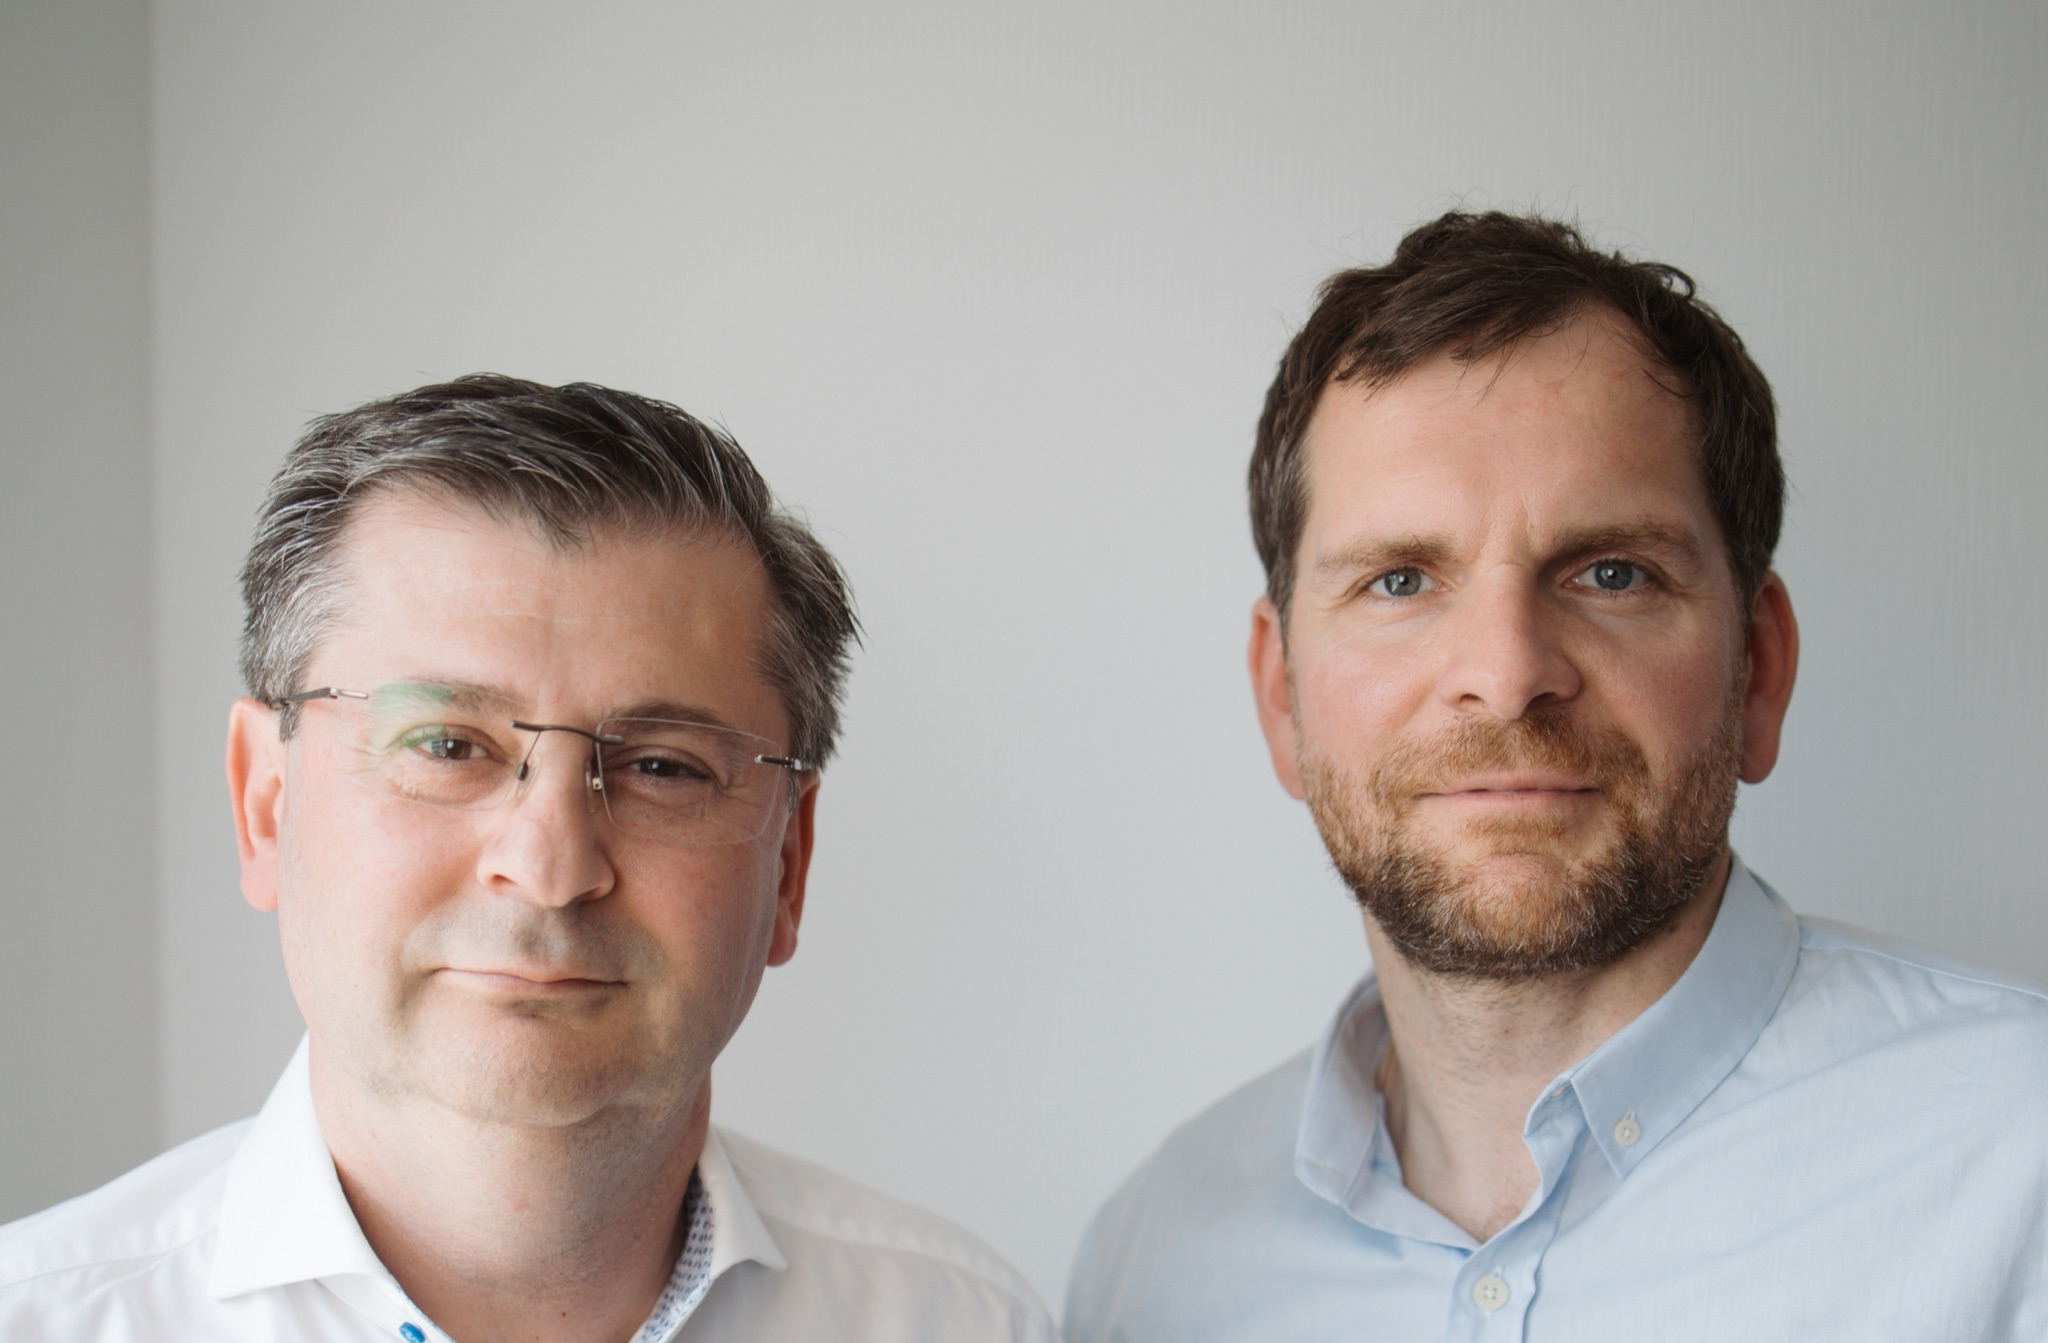
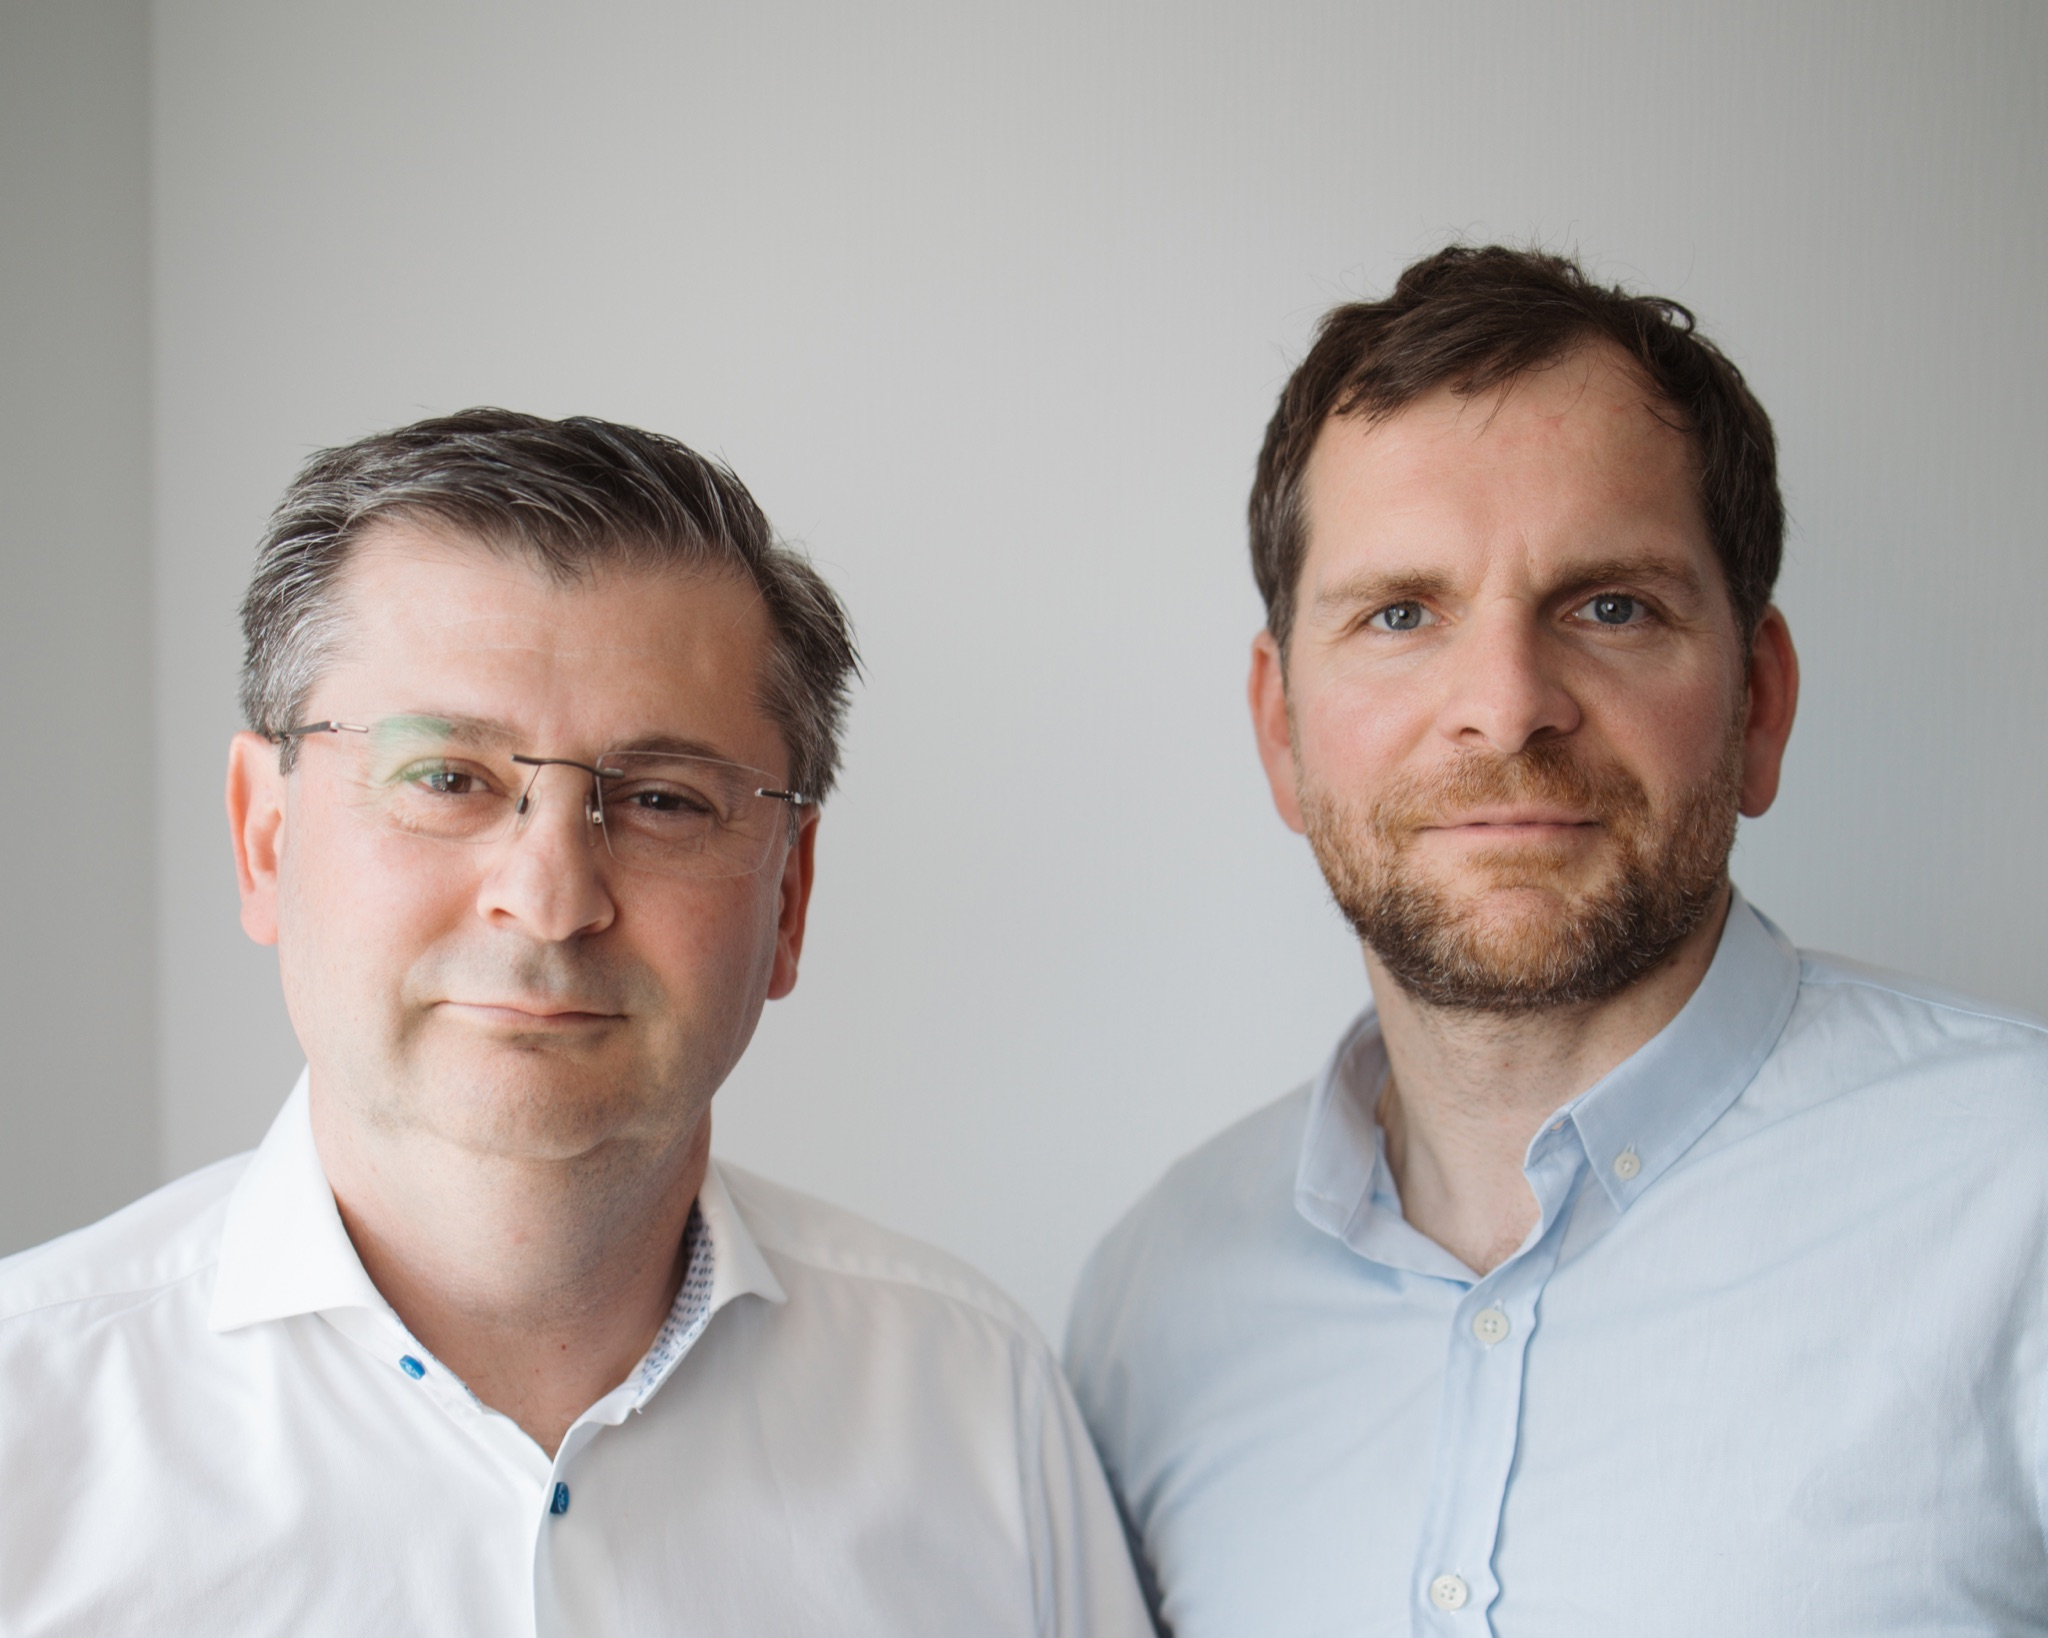
feat: Ärzte-Foto zeigt mehr von beiden Ärzten (5:4-Zuschnitt)
Kundenwunsch: die beiden sollen mehr zu sehen sein. Neuer Zuschnitt aus dem
Original (originals/IMG_6163.JPG) im 5:4- statt 3:2-Format — jetzt bis zur
Brust statt nur bis zum Kragen (2048×1638, Crop-Offset y=1000, Höhe 3584).
Bildmaße in Team, Bewerbungs-Hero und OpenGraph angepasst.

diff --git a/src/components/bewerbung/BewerbungHero.tsx b/src/components/bewerbung/BewerbungHero.tsx
@@ -39,7 +39,7 @@ export default function BewerbungHero() {
                 src="/images/aerzte-gulans-antonyan-full.jpg"
                 alt="Dr. med. Albert Antonyan und Aleksejs Gulans, Fachärzte für Urologie in Wiehl"
                 width={2048}
-                height={1343}
+                height={1638}
                 priority
                 sizes="(min-width: 1024px) 480px, 100vw"
                 className="w-full h-auto object-cover"

diff --git a/src/components/Team.tsx b/src/components/Team.tsx
@@ -43,7 +43,7 @@ export default function Team() {
               src="/images/aerzte-gulans-antonyan-full.jpg"
               alt="Dr. med. Albert Antonyan (links) und Aleksejs Gulans (rechts)"
               width={2048}
-              height={1343}
+              height={1638}
               sizes="(min-width: 1104px) 1024px, 100vw"
               className="w-full h-auto object-cover"
             />

diff --git a/src/app/bewerbung/page.tsx b/src/app/bewerbung/page.tsx
@@ -25,7 +25,7 @@ export const metadata: Metadata = {
       {
         url: "/images/aerzte-gulans-antonyan-full.jpg",
         width: 2048,
-        height: 1343,
+        height: 1638,
       },
     ],
   },
